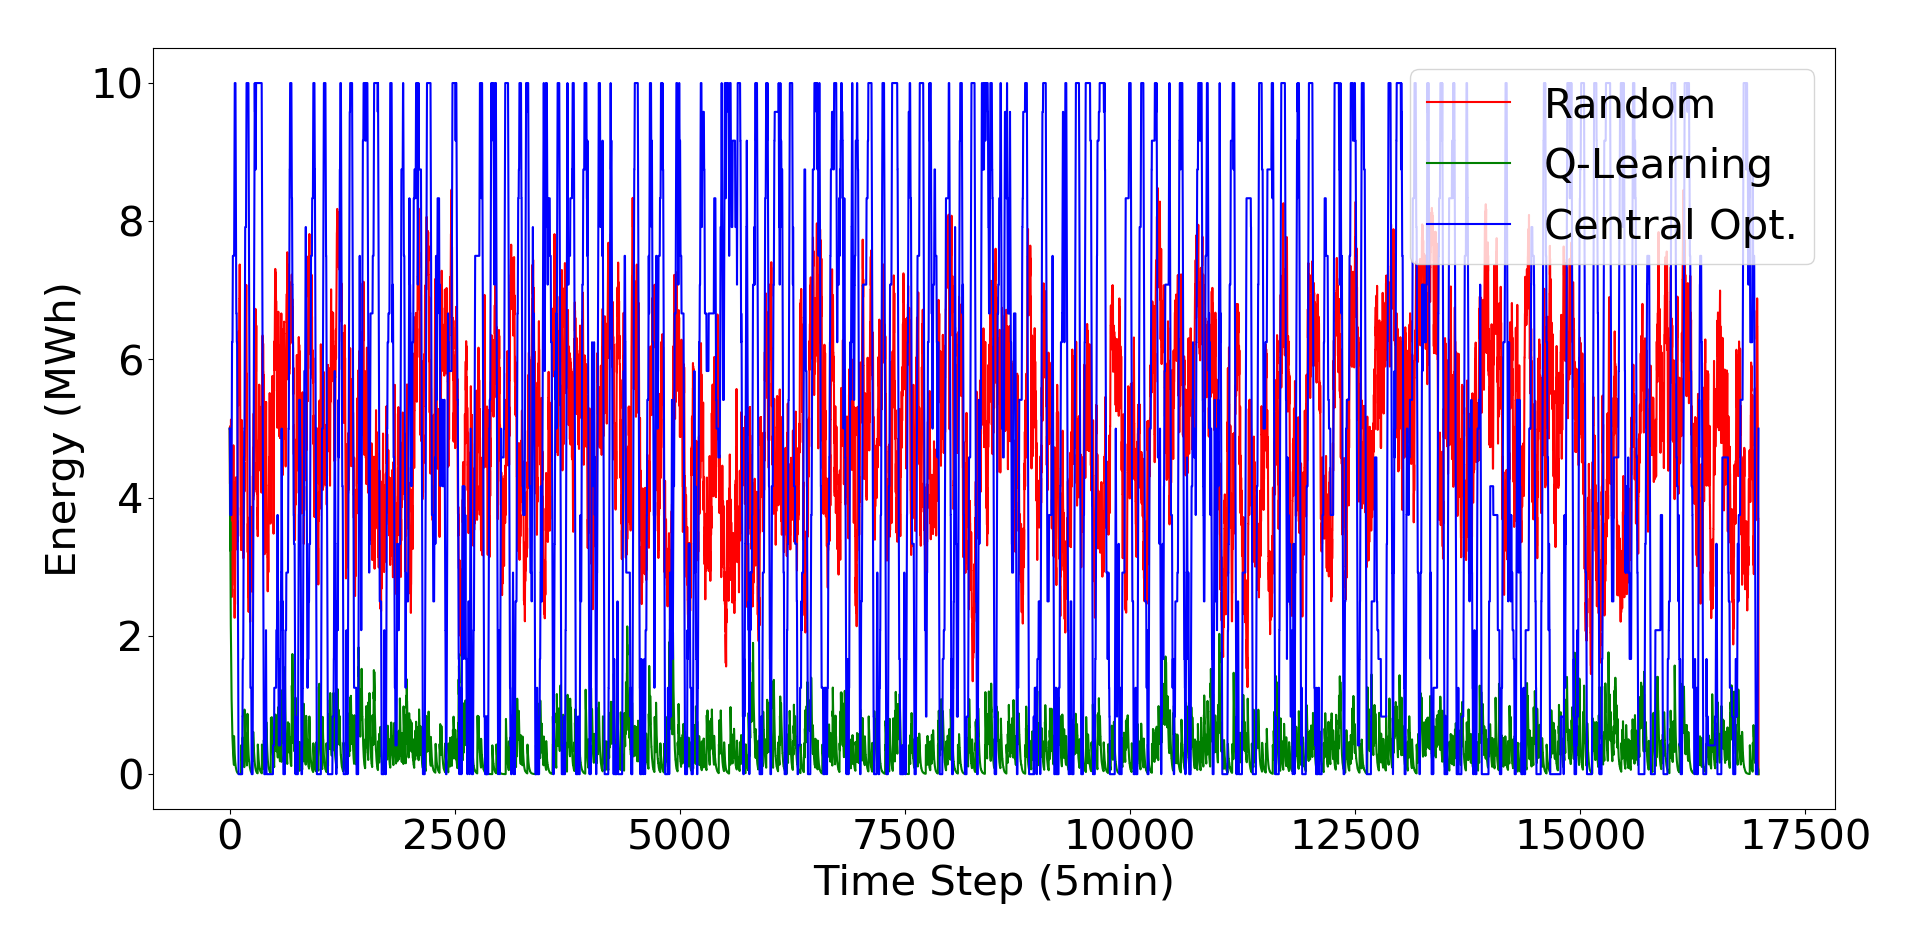
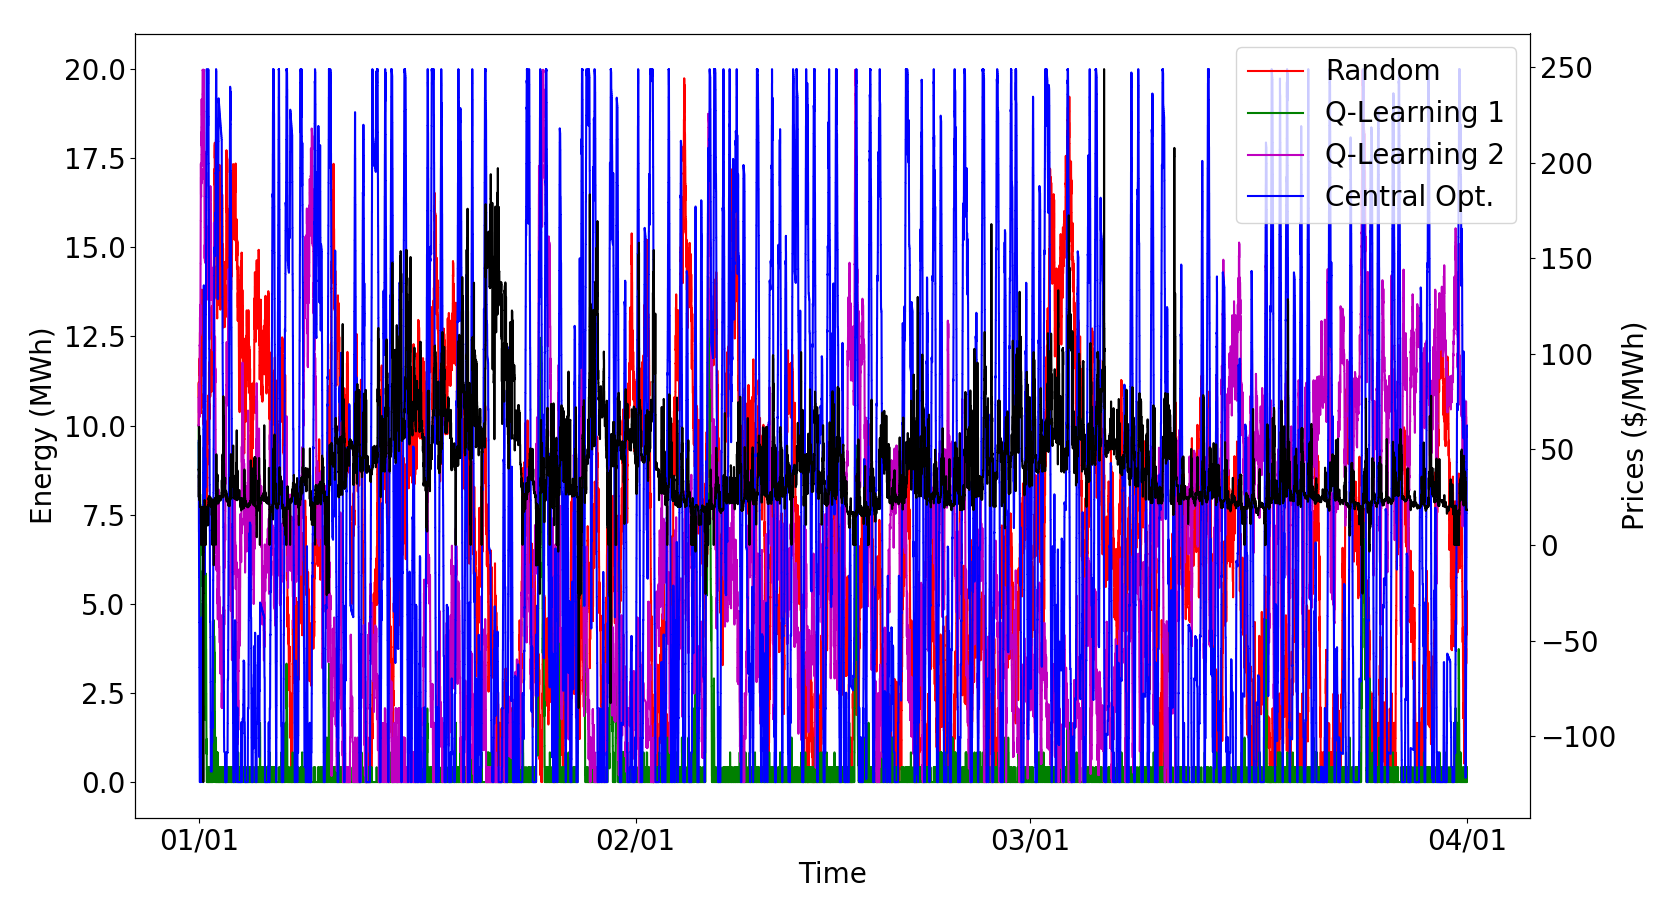
Plotting updates

diff --git a/Code/ess_functions.py b/Code/ess_functions.py
@@ -232,32 +232,58 @@ def plot_results(data, log_random, log_q1, log_q2, log_central):
 
     # total energy plot
     fig, ax1 = plt.subplots()
-    ax1.plot(log_random.loc[:, 'Energy'], 'r', label='Random')
-    ax1.plot(log_q1.loc[:, 'Energy'], 'g', label='Q-Learning 1')
-    ax1.plot(log_q2.loc[:, 'Energy'], 'm', label='Q-Learning 2')
-    ax1.plot(log_central.loc[:, 'Energy'], 'b', label='Central Opt.')
+    ax1.plot(log_random.loc[:, 'Energy'], 'r', label='Random', drawstyle='steps')
+    ax1.plot(log_q1.loc[:, 'Energy'], 'g', label='Q-Learning 1', drawstyle='steps')
+    ax1.plot(log_q2.loc[:, 'Energy'], 'm', label='Q-Learning 2', drawstyle='steps')
+    ax1.plot(log_central.loc[:, 'Energy'], 'b', label='Central Opt.', drawstyle='steps')
     ax2 = ax1.twinx()
-    ax2.plot(data, 'k', label='LMP')
-    fig.autofmt_xdate()
-    ax1.set_xlabel('Time Step (5min)')
+    ax2.plot(data[:], 'k', label='LMP', drawstyle='steps')
+    ax1.xaxis.set_major_locator(mdates.MonthLocator())
+    ax1.xaxis.set_major_formatter(mdates.DateFormatter("%m/%d"))
+    ax1.set_xlabel('Time')
     ax1.set_ylabel('Energy (MWh)')
     ax2.set_ylabel('Prices ($/MWh)')
     ax1.legend()
     plt.tight_layout()
 
     # total power plot
-    fig, ax1 = plt.subplots()
-    ax1.plot(log_random.loc[:, 'Power'], 'r', label='Random')
-    ax1.plot(log_q1.loc[:, 'Power'], 'g', label='Q-Learning 1')
-    ax1.plot(log_q2.loc[:, 'Power'], 'm', label='Q-Learning 2')
-    ax1.plot(log_central.loc[:, 'Power'], 'b', label='Central Opt.')
-    ax2 = ax1.twinx()
-    ax2.plot(data, 'k', label='LMP')
+    # fig, ax1 = plt.subplots()
+    # ax1.plot(log_random.loc[:, 'Power'], 'r', label='Random')
+    # ax1.plot(log_q1.loc[:, 'Power'], 'g', label='Q-Learning 1')
+    # ax1.plot(log_q2.loc[:, 'Power'], 'm', label='Q-Learning 2')
+    # ax1.plot(log_central.loc[:, 'Power'], 'b', label='Central Opt.')
+    # ax2 = ax1.twinx()
+    # ax2.plot(data[:], 'k', label='LMP')
+    # ax1.xaxis.set_major_locator(mdates.MonthLocator())
+    # ax1.xaxis.set_major_formatter(mdates.DateFormatter("%m/%d"))
+    # ax1.set_xlabel('Time')
+    # ax1.set_ylabel('Power (MW)')
+    # ax2.set_ylabel('Prices ($/MWh)')
+    # ax1.legend()
+    # plt.tight_layout()
+
+    # combine
+    font = {'size': 20}
+    matplotlib.rc('font', **font)
+    randind = np.random.randint(5000, len(data))
+    date_ind = data.index[randind:randind+288]
+    fig, axarr = plt.subplots(3, 1, sharex=True)
+    axarr[0].plot(log_random.loc[date_ind, 'Energy'], 'r', label='Random', drawstyle='steps')
+    axarr[0].plot(log_q1.loc[date_ind, 'Energy'], 'g', label='Q-Learning 1', drawstyle='steps')
+    axarr[0].plot(log_q2.loc[date_ind, 'Energy'], 'm', label='Q-Learning 2', drawstyle='steps')
+    axarr[0].plot(log_central.loc[date_ind, 'Energy'], 'b', label='Central Opt.', drawstyle='steps')
+    axarr[0].set_ylabel('Energy (MWh)')
+    axarr[1].plot(log_random.loc[date_ind, 'Power'], 'r', label='Random', drawstyle='steps')
+    axarr[1].plot(log_q1.loc[date_ind, 'Power'], 'g', label='Q-Learning 1', drawstyle='steps')
+    axarr[1].plot(log_q2.loc[date_ind, 'Power'], 'm', label='Q-Learning 2', drawstyle='steps')
+    axarr[1].plot(log_central.loc[date_ind, 'Power'], 'b', label='Central Opt.', drawstyle='steps')
+    axarr[1].set_ylabel('Power (MW)')
+    axarr[1].legend(loc='right')
+    axarr[2].plot(data[date_ind], 'k', label='LMP')
+    axarr[2].set_ylabel('Prices ($/MWh)')
+    axarr[2].set_xlabel('Time')
+    axarr[2].legend()
     fig.autofmt_xdate()
-    ax1.set_xlabel('Time Step (5min)')
-    ax1.set_ylabel('Power (MW)')
-    ax2.set_ylabel('Prices ($/MWh)')
-    ax1.legend()
     plt.tight_layout()
 
     # cumulative profits
@@ -266,24 +292,21 @@ def plot_results(data, log_random, log_q1, log_q2, log_central):
     ax1.plot(log_q1.loc[:, 'cumul_prof'], 'g', label='Q-Learning 1')
     ax1.plot(log_q2.loc[:, 'cumul_prof'], 'm', label='Q-Learning 2')
     ax1.plot(log_central.loc[:, 'cumul_prof'], 'b', label='Central Opt.')
-    fig.autofmt_xdate()
-    ax1.set_xlabel('Time Step (5min)')
+    ax1.xaxis.set_major_locator(mdates.MonthLocator())
+    ax1.xaxis.set_major_formatter(mdates.DateFormatter("%m/%d"))
+    ax1.set_xlabel('Time')
     ax1.set_ylabel('Cumulative Profit ($)')
     ax1.legend()
     plt.grid(axis='y')
     plt.tight_layout()
 
-    plot_power = pd.DataFrame({'Random': log_random[:, 1],
-                               'Q1': log_q1[:, 1],
-                               'Q2': log_q2[:, 1],
-                               'Central Opt.': log_central[:, 1]})
 
     plt.figure()
     # plot_power.hist(subplots=False)
-    plt.hist([log_random[:, 1], log_q1[:, 1], log_central[:, 1]], bins=40,
-             label=['Random', 'Q-Learning 1', 'Central Opt.'])
-    plt.hist([log_random[:, 1], log_q2[:, 1], log_central[:, 1]], bins=40,
-             label=['Random', 'Q-Learning 1', 'Central Opt.'], log=True)
+    plt.hist([log_random.loc[:, 'Power'], log_q1.loc[:, 'Power'], log_q2.loc[:, 'Power'], log_central.loc[:, 'Power']], bins=40,
+             label=['Random', 'Q-Learning 1', 'Q-Learning 2', 'Central Opt.'])
+    plt.hist([log_random.loc[:, 'Power'], log_q1.loc[:, 'Power'], log_q2.loc[:, 'Power'], log_central.loc[:, 'Power']], bins=40,
+             label=['Random', 'Q-Learning 1', 'Q-Learning 2', 'Central Opt.'], log=True)
     # plt.hist(log_random[:, 1], bins=40, alpha=0.5, color='r', label='Random')
     # plt.hist(log_q[:, 1], bins=40, alpha=0.5, color='g', label='Q-Learning')
     # plt.hist(log_central[:, 1], bins=40, alpha=0.5, color='b', label='Central Opt.')
